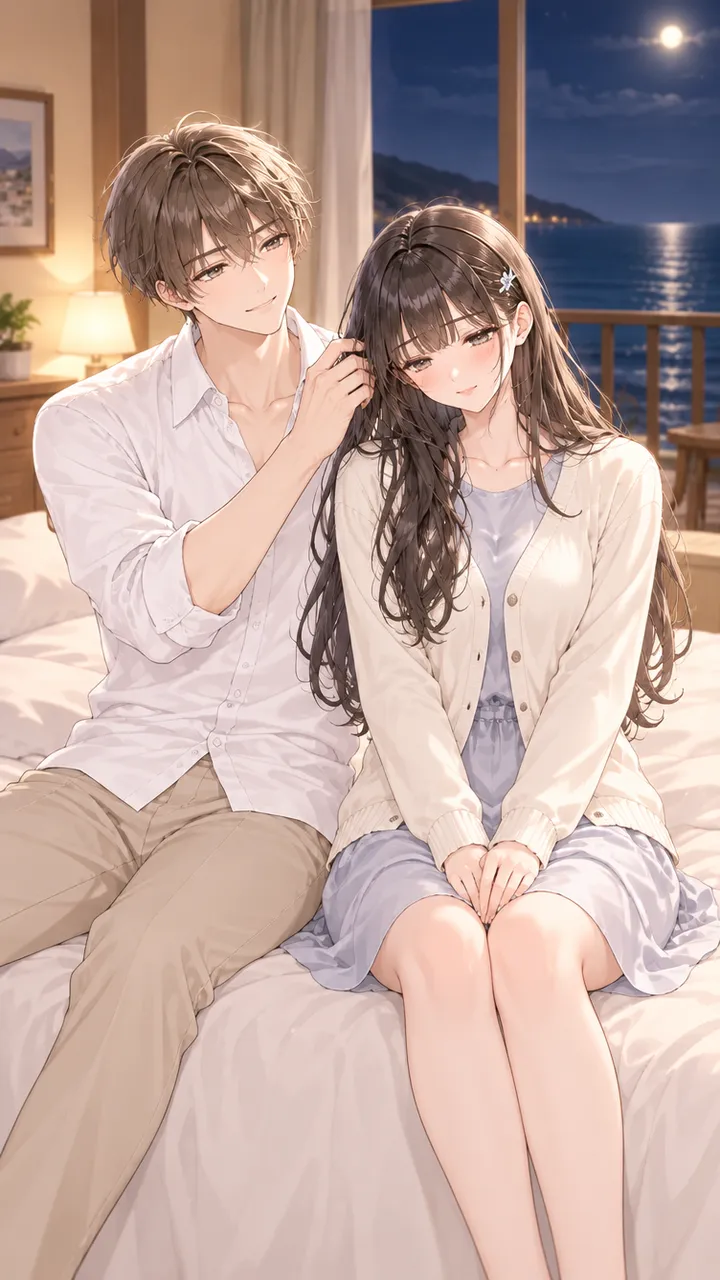
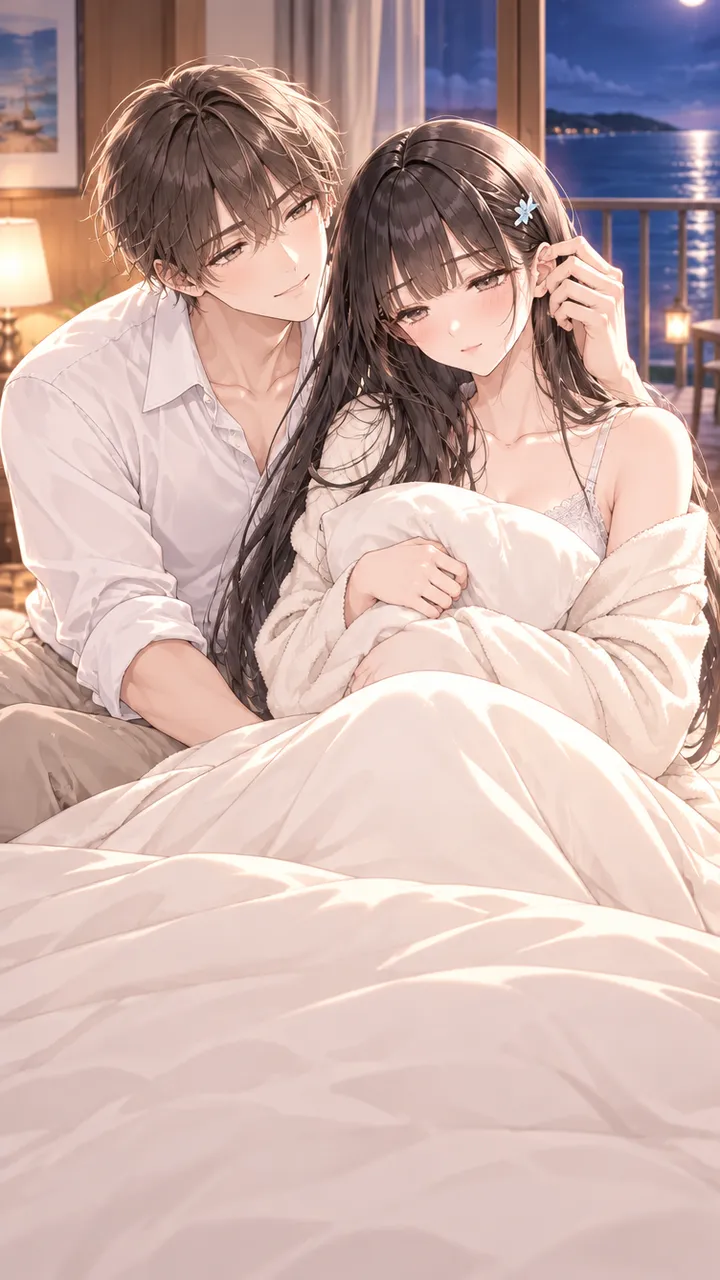
첫날밤 직전 일러스트(속옷 차림 버전) 6장 교체

diff --git a/index.html b/index.html
@@ -469,7 +469,7 @@ h1,h2,h3,.wordmark,.hud-line b,.sh-head b,.wizq h2,input[type=text]{font-family:
    <button class="btn blue" id="b-new">새로 시작</button>
    <button class="btn ghost sm" id="b-slots" style="display:none;background:rgba(255,255,255,.8)">저장 슬롯 불러오기</button>
    <button class="btn ghost sm" id="b-cont" style="display:none;background:rgba(255,255,255,.8)">이어하기</button>
-   <div class="note">저장은 이 기기에만 보관돼요. · 빌드 #81 · 2026.10.11<br><span id="fitdiag"></span></div>
+   <div class="note">저장은 이 기기에만 보관돼요. · 빌드 #82 · 2026.10.11<br><span id="fitdiag"></span></div>
   </div>
  </section>
  <section id="setup" class="screen">
@@ -508,7 +508,7 @@ h1,h2,h3,.wordmark,.hud-line b,.sh-head b,.wizq h2,input[type=text]{font-family:
  <div id="agegate" class="agegate"><div class="agbox"><div class="agmark">19</div><h2>성인 이용 안내</h2><p>이 게임에는 성인 연애 묘사(암시적 장면)가 포함되어 있어<br>만 19세 이상만 이용할 수 있어요.</p><label for="ag-year">태어난 해</label><select id="ag-year"></select><button id="ag-ok" class="agok">확인하고 시작하기</button><button id="ag-no" class="agno">나가기</button><small id="ag-msg"></small></div></div>
  <div id="act" class="actcard"></div>
  <div id="ev" class="evcard"></div>
- <div id="buildtag">빌드 #81 · 2026.10.11</div>
+ <div id="buildtag">빌드 #82 · 2026.10.11</div>
  <div class="ov" id="ov"><div class="sheet" id="sheet"></div></div>
 </div>
 <script>// ==ENGINE== 순수 게임 로직 (DOM 금지: sim.mjs가 이 파일들을 그대로 실행한다)
@@ -7353,7 +7353,7 @@ function initGame(){
   $('btn-advice').onclick = () => { if($('dialog').hidden) showDialog(); else $('dialog').hidden = true; };
   $('dlg-x').onclick = () => { $('dialog').hidden = true; };
   document.querySelectorAll('[data-sheet]').forEach(b => b.onclick = () => ({stat:showStats, career:showCareer, love:showLove, dex:showDex, shop:showShop, campus:showCampus, city:showCity, dex:showDex}[b.dataset.sheet])());
-  $('b-menu').onclick = () => { openSheet(sheetHead('메뉴') + `<div class="menu-list"><button class="btn ghost sm" id="m-dex">📖 도감 (엔딩·인물)</button><button class="btn ghost sm" id="m-update">🔄 새 버전 확인</button><button class="btn ghost sm" id="m-slots">💾 저장 · 불러오기 (슬롯 5개)</button><button class="btn ghost sm" id="m-title">🏠 타이틀로 (자동 저장)</button></div><div class="foot">빌드 #81 · 2026.10.11<br><span id="diag"></span></div>`);
+  $('b-menu').onclick = () => { openSheet(sheetHead('메뉴') + `<div class="menu-list"><button class="btn ghost sm" id="m-dex">📖 도감 (엔딩·인물)</button><button class="btn ghost sm" id="m-update">🔄 새 버전 확인</button><button class="btn ghost sm" id="m-slots">💾 저장 · 불러오기 (슬롯 5개)</button><button class="btn ghost sm" id="m-title">🏠 타이틀로 (자동 저장)</button></div><div class="foot">빌드 #82 · 2026.10.11<br><span id="diag"></span></div>`);
     $('x').onclick = closeSheet;
     try{ const pr = document.createElement('div'); pr.style.cssText = 'position:fixed;left:0;bottom:0;padding-bottom:env(safe-area-inset-bottom);padding-top:env(safe-area-inset-top);visibility:hidden'; document.body.appendChild(pr); const cs = getComputedStyle(pr), sb = cs.paddingBottom, st = cs.paddingTop; pr.remove(); const sa = window.navigator.standalone === true || matchMedia('(display-mode: standalone)').matches; $('diag').textContent = `화면 ${innerWidth}×${innerHeight} · 기기 ${screen.width}×${screen.height} · 안전영역 위 ${st}/아래 ${sb} · ${sa ? '홈 화면 앱' : '브라우저'}`; }catch(e){}
     $('m-dex').onclick = () => { closeSheet(); showDex(); };
@@ -7414,7 +7414,7 @@ function probeFit(big){
 fitFull(); addEventListener('resize', fitFull); addEventListener('orientationchange', () => setTimeout(fitFull, 300)); setTimeout(fitFull, 600);
 
 // ── 새 버전 확인: 사파리는 페이지를 몇 분간 기억해 두므로, 서버의 빌드 번호와 비교해 알려 준다 ──
-const BUILD_NO = parseInt(('#81 · 2026.10.11'.match(/#(\d+)/) || [0, 0])[1], 10);
+const BUILD_NO = parseInt(('#82 · 2026.10.11'.match(/#(\d+)/) || [0, 0])[1], 10);
 async function checkUpdate(manual){
   try{
     const r = await fetch(location.pathname + '?_=' + Date.now(), {cache:'no-store'}); const txt = await r.text();

diff --git a/sw.js b/sw.js
@@ -1,5 +1,5 @@
 // 자동 생성 파일 (build.mjs). 직접 수정하지 마세요.
-const CACHE = 'rewind-ten-da89059433';
+const CACHE = 'rewind-ten-9b43358b4e';
 const CORE = ["./","index.html","manifest.json","icon-192.png","icon-512.png","art/cover.webp","art/age20.webp","art/age22.webp","art/act_study.webp","art/act_cafe.webp","art/act_rest.webp","art/act_friends.webp","art/face_happy.webp","art/face_tired.webp"];
 self.addEventListener('install', e => { e.waitUntil(caches.open(CACHE).then(c => c.addAll(CORE)).then(() => self.skipWaiting())); });
 self.addEventListener('activate', e => { e.waitUntil(caches.keys().then(ks => Promise.all(ks.filter(k => k.startsWith('rewind-ten-') && k !== CACHE).map(k => caches.delete(k)))).then(() => self.clients.claim())); });
